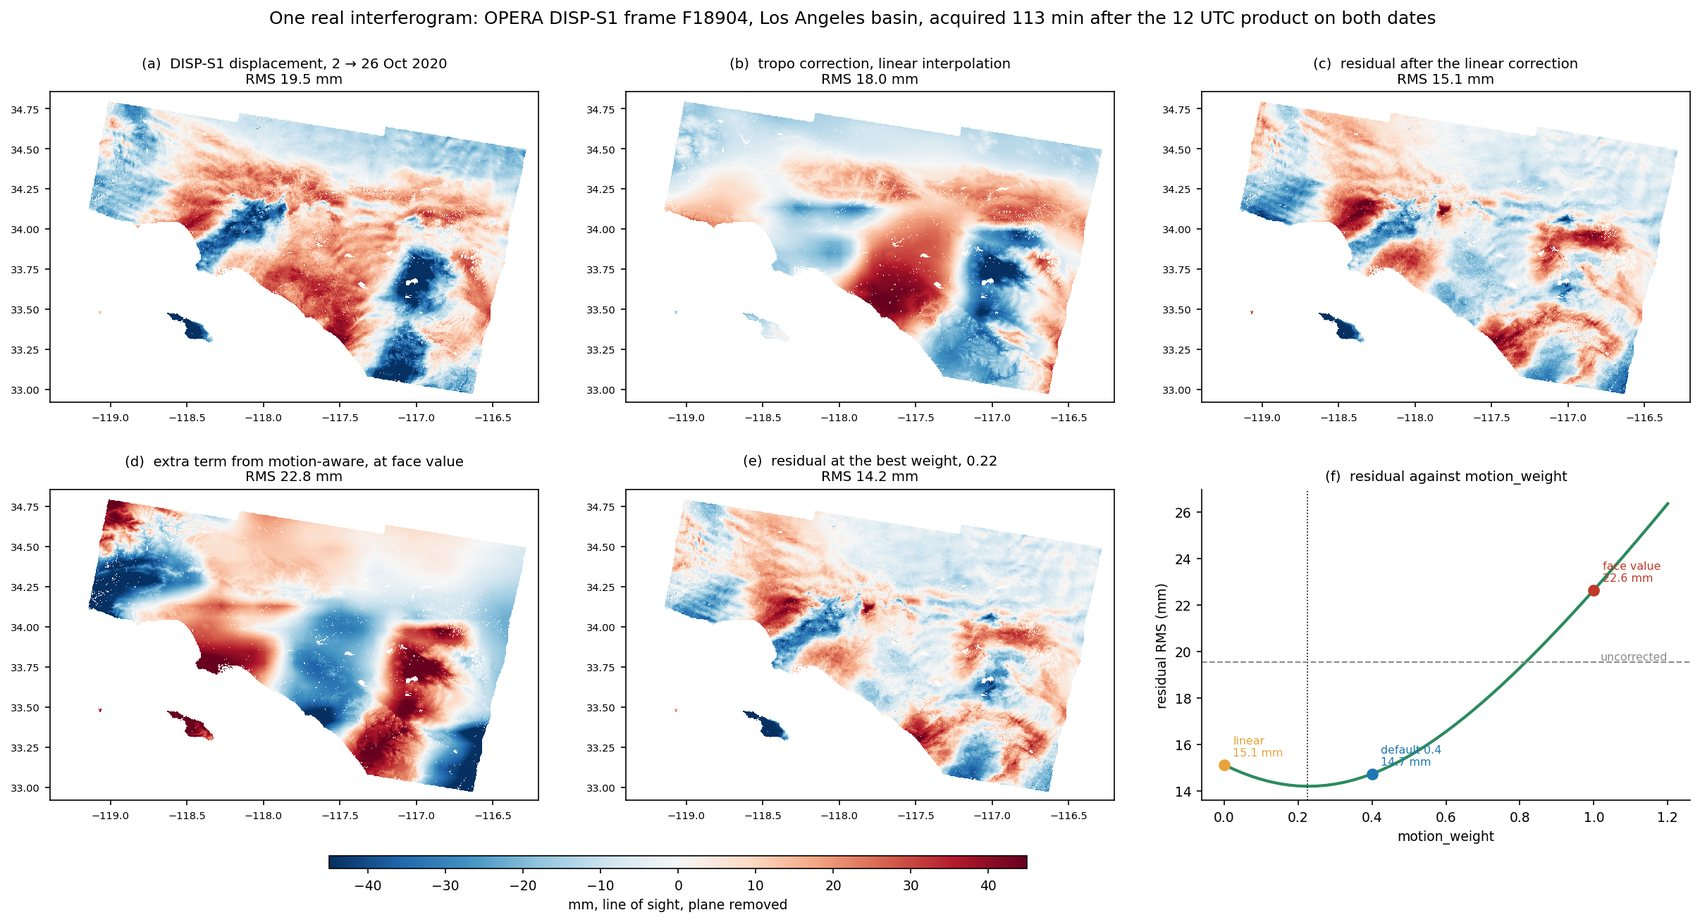
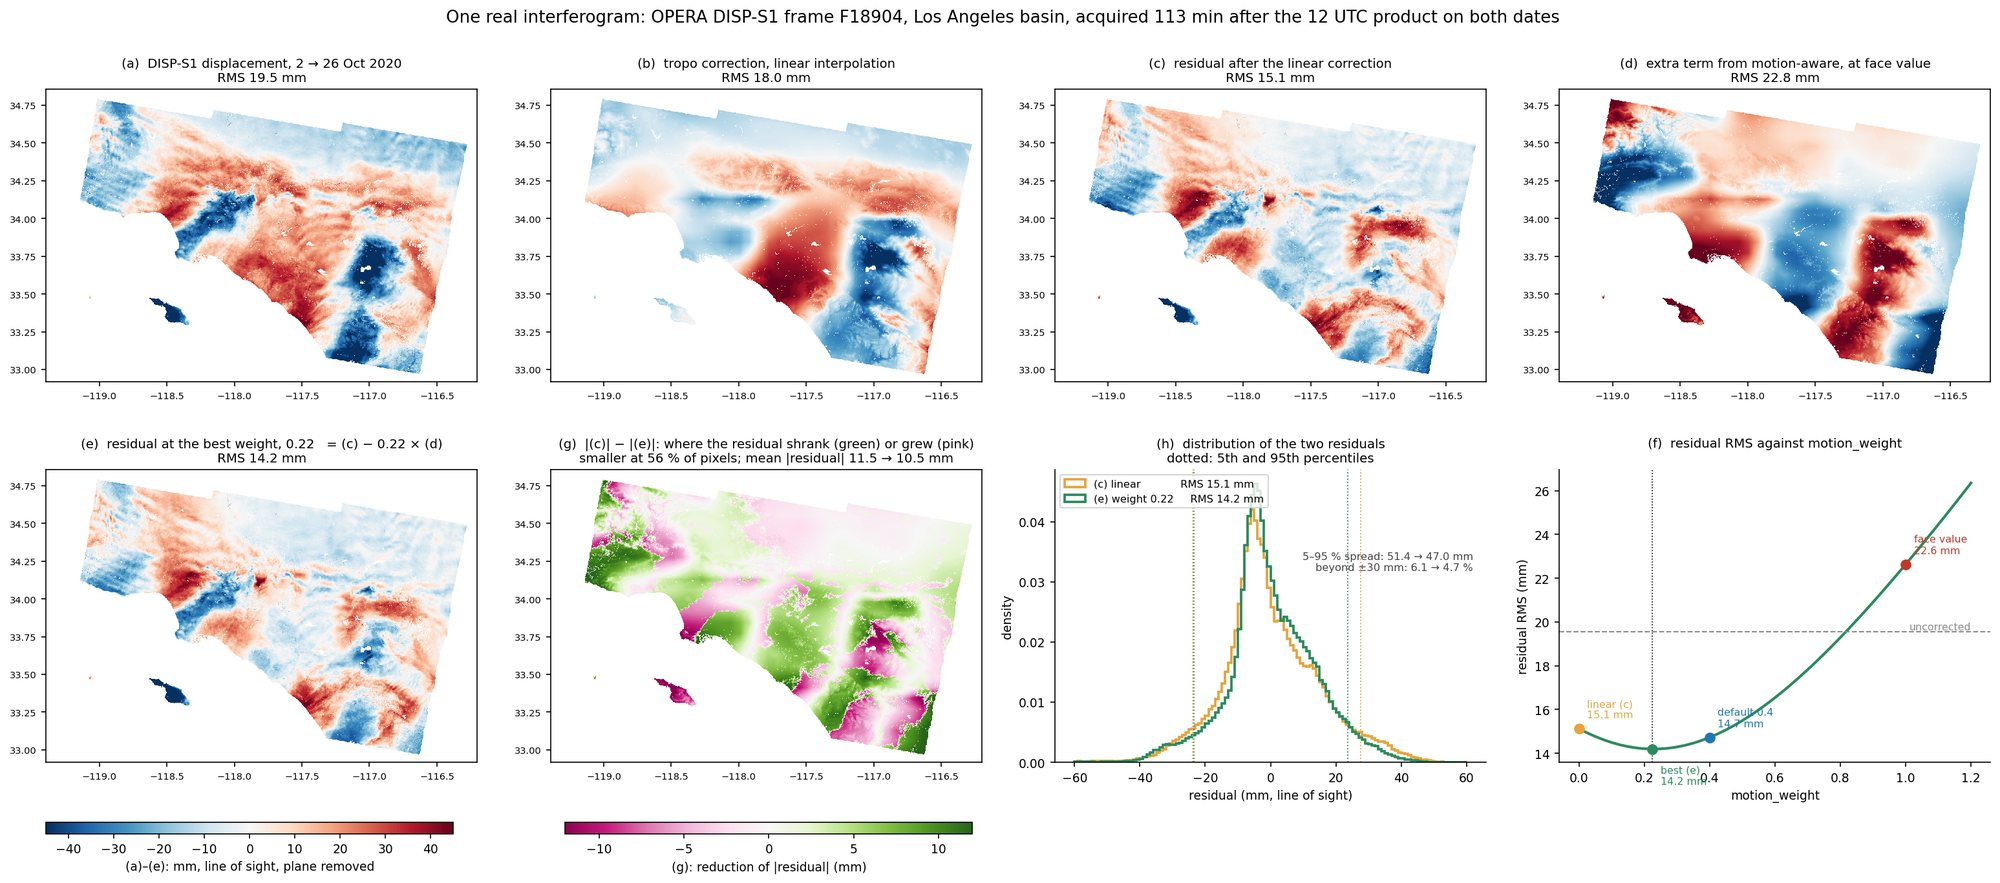
docs: interferogram figure with a direct comparison of the two residuals

diff --git a/docs/tropo-motion-interpolation.md b/docs/tropo-motion-interpolation.md
@@ -174,6 +174,11 @@ product of frame F18904 (Los Angeles basin), 2 to 26 October 2020, both acquired
 
 ![interferogram test](img/tropo-motion/insar_test.jpg)
 
+*(c) is what the linear correction leaves; (d) is the only thing the motion-aware method adds;
+(e) = (c) − 0.22 × (d). Panel (g) maps where that made the residual smaller (green) or larger
+(pink): smaller at 56 % of pixels, mean absolute residual 11.5 → 10.5 mm. Panel (h) compares
+the two distributions.*
+
 | | residual RMS, mm line of sight, plane removed |
 |---|---:|
 | uncorrected | 19.5 |
